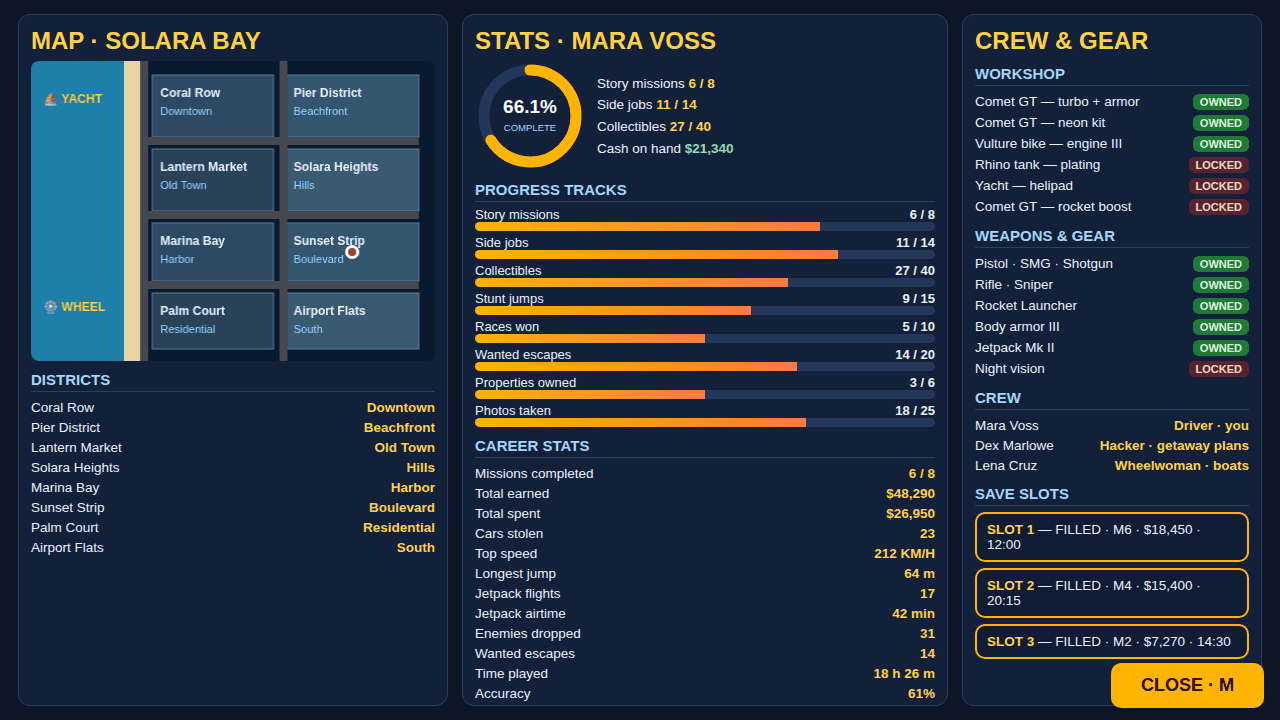
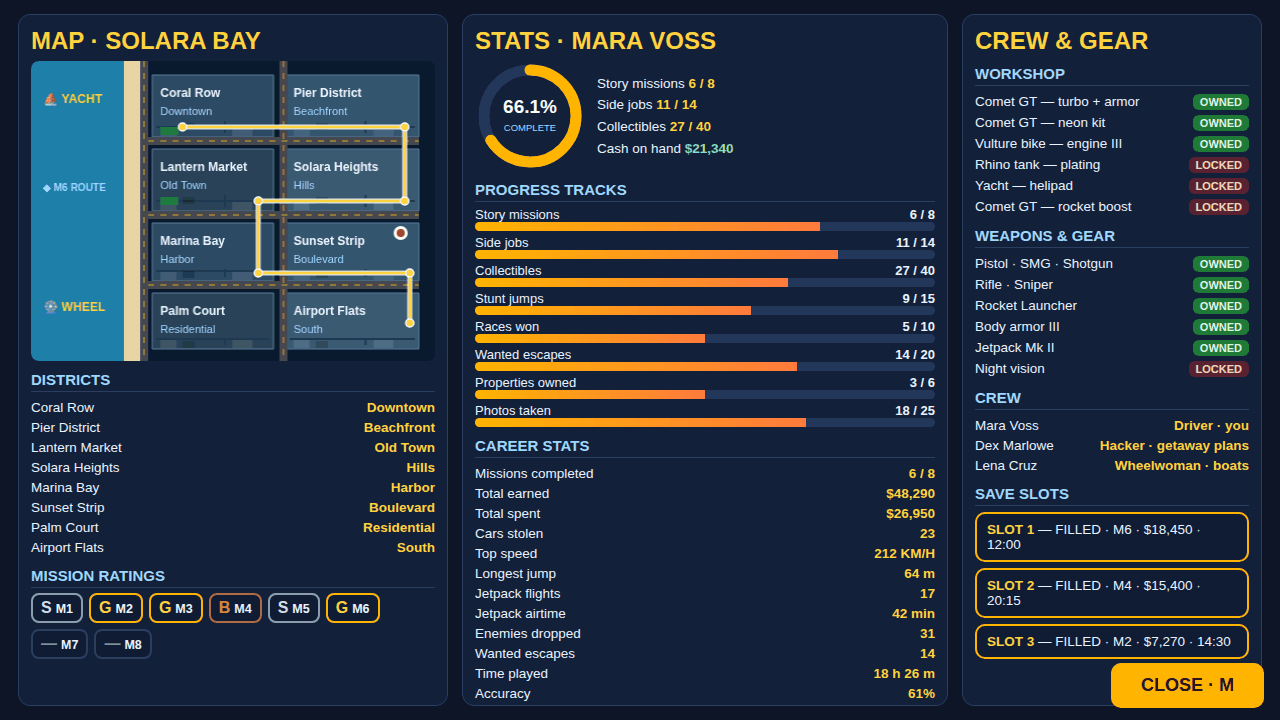
Solara Bay v20 — fix pass 2: foot + meta (stronger shooting, ratings + street-grid map)

diff --git a/game/src/shots.js b/game/src/shots.js
@@ -3,10 +3,60 @@
 // scene, lighting and HUD the player sees, frozen at its most dramatic beat.
 // Cover rule: all five police cars separately visible, no overlap hiding a car,
 // POLICE lettering big and readable, heli fully framed.
+import * as THREE from 'three';
 import { MISSIONS } from './missions.js';
 import { showBanner, toggleMeta, renderMeta } from './hud.js';
+import { flashTexture } from './textures.js';
 
 function faceNorth(obj, yaw = 0) { obj.rotation.y = Math.PI / 2 + yaw; } // model front +X -> -Z
+
+// Foot-shot-only combat effects: a THICK sharp tracer (hot white core inside
+// a wide orange glow) plus a big hard muzzle flash. The shared fireFlash
+// bolt is thin by design (it also serves the chase shot), so the foot shot
+// layers these static bolts on top — cover/chase never call them.
+function heavyTracer(G, ax, ay, az, bx, by, bz, coreR = 0.08, glowR = 0.18, coreColor = 0xfff6c0, glowColor = 0xff7a1a) {
+  const a = new THREE.Vector3(ax, ay, az), b = new THREE.Vector3(bx, by, bz);
+  const dir = new THREE.Vector3().subVectors(b, a);
+  const len = dir.length();
+  const unit = dir.clone().normalize();
+  for (const [r, color, opacity] of [[glowR, glowColor, 0.45], [coreR, coreColor, 1.0]]) {
+    const bolt = new THREE.Mesh(
+      new THREE.CylinderGeometry(r, r, len, 8, 1, true),
+      new THREE.MeshBasicMaterial({ color, transparent: true, opacity, fog: false }),
+    );
+    bolt.position.copy(a).addScaledVector(dir, 0.5);
+    bolt.quaternion.setFromUnitVectors(new THREE.Vector3(0, 1, 0), unit);
+    G.scene.add(bolt);
+  }
+}
+
+function bigFlash(G, x, y, z, scale = 3.8) {
+  const s = new THREE.Sprite(new THREE.SpriteMaterial({ map: flashTexture(), transparent: true, opacity: 1, depthWrite: false, fog: false }));
+  s.position.set(x, y, z);
+  s.scale.set(scale, scale, 1);
+  G.scene.add(s);
+}
+
+// Foot-shot-only fruit crate: wooden box + a smaller box on top, so the
+// market spills into the foreground instead of bare sidewalk.
+function addCrate(G, x, z, s = 1, ry = 0.3) {
+  const wood = new THREE.MeshStandardMaterial({ color: 0x8a5a2e, roughness: 0.9 });
+  const woodDark = new THREE.MeshStandardMaterial({ color: 0x6b4423, roughness: 0.9 });
+  const box = new THREE.Mesh(new THREE.BoxGeometry(s, s * 0.7, s), wood);
+  box.position.set(x, s * 0.35, z); box.rotation.y = ry; box.castShadow = true;
+  G.scene.add(box);
+  const top = new THREE.Mesh(new THREE.BoxGeometry(s * 0.7, s * 0.45, s * 0.7), woodDark);
+  top.position.set(x, s * 0.7 + s * 0.22, z); top.rotation.y = ry + 0.5; top.castShadow = true;
+  G.scene.add(top);
+  // fruit piled on the crate: smooth spheres, market colours
+  const cols = [0xff7a2e, 0xffd23e, 0x7ddb4a];
+  for (let i = 0; i < 3; i++) {
+    const fr = new THREE.Mesh(new THREE.SphereGeometry(0.2, 12, 10), new THREE.MeshStandardMaterial({ color: cols[i % 3], roughness: 0.5 }));
+    fr.position.set(x - 0.2 + i * 0.2, s * 0.7 + s * 0.45 + 0.14, z + (i % 2 ? 0.12 : -0.1));
+    fr.castShadow = true;
+    G.scene.add(fr);
+  }
+}
 
 export function applyShot(G, name) {
   const W = G.world;
@@ -49,19 +99,52 @@ export function applyShot(G, name) {
     G.speedKmh = 0; G.health = 92; G.carDamage = 18;
     G.inCar = false; G.jetpackOn = false;
     G.hero.position.set(2, 0, 20); G.hero.rotation.y = Math.PI / 2; G.hero.visible = true;
-    G.player.position.set(12, 0, 46); G.player.rotation.y = 2.58; G.player.visible = true;
-    G.playerPos.set(12, 0, 46); G.heading = 2.58;
-    // enemies: one guard standing, one guard aiming, one DOWNED with red ring
-    G.guards[0].position.set(22, 0, 30); G.guards[0].rotation.y = -0.4; G.guards[0].visible = true;
-    G.guards[1].position.set(20, 0, 24); G.guards[1].rotation.y = -0.2; G.guards[1].visible = true;
-    G.downed.position.set(14, 0, 40); G.downed.rotation.y = 0.7; G.downed.visible = true;
+    // player BIG and close: camera ~7 units behind her shoulder, FRUIT sign
+    // still huge and fully in frame above the stalls
+    G.player.position.set(13, 0, 46); G.player.rotation.y = 2.06; G.player.visible = true;
+    G.playerPos.set(13, 0, 46); G.heading = 2.06;
+    // guards: closer, scaled up, in front of the stalls — not behind them.
+    // Guard 0 stands LATERALLY in the market lane (east of the player), so
+    // the tracer crosses the frame instead of vanishing away from the camera.
+    G.guards[0].position.set(23.5, 0, 40.5); G.guards[0].rotation.y = -1.1; G.guards[0].scale.setScalar(1.25); G.guards[0].visible = true;
+    G.guards[1].position.set(22.5, 0, 29.5); G.guards[1].rotation.y = -0.2; G.guards[1].scale.setScalar(1.25); G.guards[1].visible = true;
+    // DOWNED enemy: LARGE, on the OPEN sidewalk left-centre foreground — the
+    // near stalls occlude everything behind them from this close camera, so
+    // the body goes where nothing stands between it and the lens: clear of
+    // the player, the sign post and the minimap, red ring on open pavement
+    G.downed.position.set(12.0, 0, 42.5); G.downed.rotation.y = 0.9; G.downed.scale.setScalar(1.6); G.downed.visible = true;
     G.policeCars.forEach((p, i) => { p.position.set(-7 + i * 3, 0, 60 + i * 8); faceNorth(p); p.visible = i < 2; });
     G.helis.forEach((h) => { h.visible = false; });
-    // muzzle flash + tracer live at the player's gun
-    G.fireFlash(12.8, 1.5, 45, 22, 1.4, 30);
-    // over-shoulder camera: player big, FRUIT sign huge and fully in frame
-    G.camera.position.set(6, 3.2, 56);
-    G.camera.lookAt(17, 2, 32);
+    // DENSE crowd: ten peds pulled into the frame — foreground figures at the
+    // bottom edge, more around the stalls and the FRUIT sign — frozen in place
+    const crowdSpots = [
+      [7.8, 48.0, 2.4], [19.8, 48.5, -2.2], [9.2, 47.2, 3.1], [9.0, 42.0, 2.2],
+      [14.5, 42.5, -0.5], [15.0, 36.5, 0.9], [25.5, 43.0, -1.2], [19.0, 30.5, 2.9],
+      [24.0, 35.0, -2.0], [11.5, 39.5, 1.4],
+    ];
+    crowdSpots.forEach(([x, z, ry], i) => {
+      const p = G.crowd[i];
+      if (!p) return;
+      p.position.set(x, 0, z); p.rotation.y = ry; p.userData.walking = false;
+    });
+    // FILL the lower third: fruit crates spilling onto the sidewalk foreground
+    addCrate(G, 17.8, 48.5, 1.1, 0.3);
+    addCrate(G, 21.8, 45.0, 0.9, -0.2);
+    addCrate(G, 24.5, 44.0, 1.0, 0.6);
+    // STRONG shooting: thick sharp tracer + big hard muzzle flash from the
+    // player, and a return-fire tracer + flash from the guard — a shootout,
+    // not a soft glow. The bolt runs laterally across the frame (player east
+    // to the guard in the market lane), so it reads as a bolt, not a dot.
+    G.fireFlash(14.1, 1.5, 45.4, 23.5, 1.3, 40.5);
+    heavyTracer(G, 14.1, 1.5, 45.4, 23.5, 1.3, 40.5, 0.11, 0.24);
+    heavyTracer(G, 14.1, 1.85, 45.4, 23.5, 1.6, 40.5, 0.05, 0.13);
+    bigFlash(G, 14.1, 1.5, 45.4, 3.0);
+    heavyTracer(G, 23.5, 1.4, 40.5, 14.0, 1.2, 45.8, 0.05, 0.13, 0xffd0a0, 0xff5020);
+    bigFlash(G, 23.3, 1.4, 40.7, 2.2);
+    // close over-shoulder camera, turned a touch east so the road wedge
+    // shrinks: player big, FRUIT sign huge and fully in frame
+    G.camera.position.set(10.5, 2.3, 52.5);
+    G.camera.lookAt(16.5, 1.6, 38);
     G.waypoint.set(22, 0, 26);
   } else if (name === 'chase') {
     W.setPreset('golden');

diff --git a/game/src/hud.js b/game/src/hud.js
@@ -119,6 +119,12 @@ const DISTRICTS = [
   ['Solara Heights', 'Hills'], ['Marina Bay', 'Harbor'], ['Sunset Strip', 'Boulevard'],
   ['Palm Court', 'Residential'], ['Airport Flats', 'South'],
 ];
+// Mission ratings, v18 convention: S = top, G = gold, B = bronze, — = not
+// played yet. Six of eight missions are complete, so M1–M6 carry a rating.
+const RATINGS = [
+  ['M1', 'S'], ['M2', 'G'], ['M3', 'G'], ['M4', 'B'],
+  ['M5', 'S'], ['M6', 'G'], ['M7', '—'], ['M8', '—'],
+];
 
 export function renderMeta() {
   $('tracks').innerHTML = TRACKS.map(([n, a, b]) =>
@@ -128,6 +134,8 @@ export function renderMeta() {
   $('gear').innerHTML = GEAR.map(([n, s]) => `<div class="row"><span>${n}</span><span class="tag ${s === 'OWNED' ? 'owned' : 'locked'}">${s}</span></div>`).join('');
   $('crew').innerHTML = CREW.map(([n, r]) => `<div class="row"><span>${n}</span><b>${r}</b></div>`).join('');
   $('districts').innerHTML = DISTRICTS.map(([n, d]) => `<div class="row"><span>${n}</span><b>${d}</b></div>`).join('');
+  $('ratings').innerHTML = RATINGS.map(([m, r]) =>
+    `<span class="rate ${r === 'G' ? 'gold' : r === 'S' ? 'silver' : r === 'B' ? 'bronze' : 'none'}"><b>${r}</b>${m}</span>`).join('');
   const saves = JSON.parse(localStorage.getItem('solara-saves') || '[]');
   const slots = [
     { n: 1, label: saves[0] ? `FILLED · ${saves[0]}` : 'EMPTY' },
@@ -139,7 +147,10 @@ export function renderMeta() {
   drawMap();
 }
 
-// Real 8-district map drawn on canvas: ocean, beach, road grid, labels.
+// Detailed street-grid map drawn on canvas: ocean, beach, 8 district blocks
+// subdivided into parcels by inner streets, dashed avenues, a gold M6 route
+// with waypoint dots, and a player marker placed clear of every label
+// (it used to sit on top of the "Sunset Strip" text).
 export function drawMap() {
   const cv = $('mapCanvas'); if (!cv) return;
   const g = cv.getContext('2d');
@@ -151,17 +162,53 @@ export function drawMap() {
   rects.forEach(([x, y, w, h], i) => {
     g.fillStyle = cols[i % 4]; g.fillRect(x, y, w, h);
     g.strokeStyle = '#5a7d9c'; g.lineWidth = 1; g.strokeRect(x, y, w, h);
+    // inner streets: subdivide the block into parcels BELOW the labels
+    g.strokeStyle = '#1e3a52'; g.lineWidth = 2;
+    g.beginPath(); g.moveTo(x + w * 0.6, y + 46); g.lineTo(x + w * 0.6, y + h - 4); g.stroke();
+    g.beginPath(); g.moveTo(x + 4, y + h - 10); g.lineTo(x + w - 4, y + h - 10); g.stroke();
+    // tiny building footprints in the lower parcels: a parcel map, not a slab
+    g.fillStyle = 'rgba(255,255,255,0.10)';
+    g.fillRect(x + 8, y + h - 9, 16, 8);
+    g.fillRect(x + w * 0.66, y + h - 9, 20, 8);
+    g.fillStyle = 'rgba(0,0,0,0.18)';
+    g.fillRect(x + 30, y + 48, 12, 7);
+    // district name + sub-label, top-left of the block, clear of the streets
     g.fillStyle = '#eaf2ff'; g.font = 'bold 12px Arial'; g.textAlign = 'left';
     g.fillText(DISTRICTS[i][0], x + 8, y + 22);
     g.fillStyle = '#9fd8ff'; g.font = '11px Arial';
     g.fillText(DISTRICTS[i][1], x + 8, y + 40);
   });
-  // roads
-  g.fillStyle = '#45484f'; g.fillRect(108, 0, 8, 300); g.fillRect(246, 0, 8, 300); g.fillRect(116, 76, 268, 8); g.fillRect(116, 150, 268, 8); g.fillRect(116, 220, 268, 8);
-  // yacht + ferris icons
-  g.fillStyle = '#ffd23e'; g.font = 'bold 12px Arial';
+  // two pocket parks inside the grid, clear of every label and of the route
+  g.fillStyle = '#2a6b3c';
+  g.fillRect(128, 66, 18, 8);
+  g.fillRect(128, 136, 18, 8);
+  // avenues: the roads between the blocks, with dashed yellow centrelines
+  g.fillStyle = '#45484f';
+  g.fillRect(108, 0, 8, 300); g.fillRect(246, 0, 8, 300);
+  g.fillRect(116, 76, 268, 8); g.fillRect(116, 150, 268, 8); g.fillRect(116, 220, 268, 8);
+  g.strokeStyle = '#d8a928'; g.lineWidth = 1; g.setLineDash([6, 6]);
+  g.beginPath(); g.moveTo(112, 0); g.lineTo(112, 300); g.moveTo(250, 0); g.lineTo(250, 300); g.stroke();
+  g.beginPath(); g.moveTo(116, 80); g.lineTo(384, 80); g.moveTo(116, 154); g.lineTo(384, 154); g.moveTo(116, 224); g.lineTo(384, 224); g.stroke();
+  g.setLineDash([]);
+  // M6 route: gold line, white under-stroke, waypoint dots — threaded along
+  // block edges and below the labels so it never crosses any text
+  const route = [[150, 66], [370, 66], [370, 140], [225, 140], [225, 212], [375, 212], [375, 262]];
+  g.lineJoin = 'round';
+  g.strokeStyle = 'rgba(255,255,255,0.85)'; g.lineWidth = 5;
+  g.beginPath(); route.forEach(([x, y], i) => { if (i === 0) g.moveTo(x, y); else g.lineTo(x, y); }); g.stroke();
+  g.strokeStyle = '#ffd23e'; g.lineWidth = 2.5;
+  g.beginPath(); route.forEach(([x, y], i) => { if (i === 0) g.moveTo(x, y); else g.lineTo(x, y); }); g.stroke();
+  for (const [x, y] of route) {
+    g.fillStyle = '#ffd23e'; g.beginPath(); g.arc(x, y, 4, 0, Math.PI * 2); g.fill();
+    g.strokeStyle = '#fff'; g.lineWidth = 1.5; g.beginPath(); g.arc(x, y, 4, 0, Math.PI * 2); g.stroke();
+  }
+  // yacht + ferris icons + route legend, all in the empty ocean strip
+  g.fillStyle = '#ffd23e'; g.font = 'bold 12px Arial'; g.textAlign = 'left';
   g.fillText('⛵ YACHT', 12, 42); g.fillText('🎡 WHEEL', 12, 250);
-  // player marker (Sunset Strip, clear of labels)
-  g.fillStyle = '#fff'; g.beginPath(); g.arc(318, 191, 7, 0, Math.PI * 2); g.fill();
-  g.fillStyle = '#c8102e'; g.beginPath(); g.arc(318, 191, 4, 0, Math.PI * 2); g.fill();
+  g.fillStyle = '#9fd8ff'; g.font = 'bold 10px Arial';
+  g.fillText('◆ M6 ROUTE', 12, 130);
+  // player marker: top-right corner of the Sunset Strip block, clear of its
+  // name and sub-label (both end well left of x=359)
+  g.fillStyle = '#fff'; g.beginPath(); g.arc(366, 172, 7, 0, Math.PI * 2); g.fill();
+  g.fillStyle = '#c8102e'; g.beginPath(); g.arc(366, 172, 4, 0, Math.PI * 2); g.fill();
 }

diff --git a/game/index.html b/game/index.html
@@ -59,6 +59,13 @@
   #meta .track .bar i { display: block; height: 100%; background: linear-gradient(90deg,#ffb400,#ff7a3c); }
   #meta .row { display: flex; justify-content: space-between; font-size: 13.5px; padding: 2.5px 0; }
   #meta .row b { color: #ffd23e; }
+  #ratings { display: flex; flex-wrap: wrap; gap: 6px; }
+  #ratings .rate { display: inline-flex; align-items: baseline; gap: 4px; font-size: 12.5px; font-weight: 700; color: #eaf2ff; background: #0f1c33; border: 2px solid #2a3f5f; border-radius: 8px; padding: 4px 8px; }
+  #ratings .rate b { font-size: 16px; }
+  #ratings .rate.gold { border-color: #ffb400; } #ratings .rate.gold b { color: #ffd23e; }
+  #ratings .rate.silver { border-color: #8fa3b8; } #ratings .rate.silver b { color: #d7dee8; }
+  #ratings .rate.bronze { border-color: #b06a35; } #ratings .rate.bronze b { color: #e08a4d; }
+  #ratings .rate.none { border-color: #2a3f5f; } #ratings .rate.none b { color: #7a8aa0; }
   #meta .slot { border: 2px solid #2a3f5f; border-radius: 10px; padding: 8px 10px; margin: 6px 0; font-size: 13.5px; background: #0f1c33; }
   #meta .slot.filled { border-color: #ffb400; }
   #meta .slot .t { font-weight: 800; color: #ffd23e; }
@@ -121,6 +128,8 @@
       <canvas id="mapCanvas" width="400" height="300"></canvas>
       <h2>DISTRICTS</h2>
       <div id="districts"></div>
+      <h2>MISSION RATINGS</h2>
+      <div id="ratings"></div>
     </div>
     <div class="col">
       <h1>STATS &middot; MARA VOSS</h1>

diff --git a/game/src/main.js b/game/src/main.js
@@ -102,6 +102,7 @@ G.guards.forEach((gd, i) => { gd.position.set(30 + i * 3, 0, 30 - i * 6); gd.vis
 G.downed = makeDowned();
 G.downed.position.set(26, 0, 30.5); G.downed.visible = false; scene.add(G.downed);
 const crowd = makeCrowd(scene);
+G.crowd = crowd; // staged shots reposition peds; gameplay never touches it
 
 // ---- effects: muzzle flash sprite, tracers, debris, smoke, skid marks ----
 const flash = new THREE.Sprite(new THREE.SpriteMaterial({ map: flashTexture(), transparent: true, opacity: 0, depthWrite: false, fog: false }));

diff --git a/README.md b/README.md
@@ -26,9 +26,9 @@ the sunset boulevard.
   presets, fog matched to the horizon, one shadow-casting sun (4096 map)
 - **HUD + minimap**: mission box, cash, clock, wanted stars, SBPD unit list,
   health, weapon, speed, damage, circular minimap
-- **Meta**: MAP/STATS screen — real 8-district map, 66.1% completion ring,
-  8 progress tracks, career stats, workshop OWNED/LOCKED, gear, crew,
-  3 save slots (localStorage)
+- **Meta**: MAP/STATS screen — detailed street-grid map with the gold M6 route,
+  mission ratings M1–M8, 66.1% completion ring, 8 progress tracks, career stats,
+  workshop OWNED/LOCKED, gear, crew, 3 save slots (localStorage)
 - **Audio**: synthesised engine hum, two-tone sirens, gunshots, radio bass
   line — all WebAudio, no audio files
 
@@ -59,7 +59,7 @@ Three.js r160 is vendored under `game/vendor/three.module.min.js`.
 2. `2-foot.png` — M2 "COLLECT THE DROP": on-foot shootout at the FRUIT stall.
 3. `3-chase.png` — M3 "OUTRUN THE SUNSET ROADBLOCK": jetpack escape under
    fire from two helicopters at golden hour.
-4. `4-meta.png` — MAP/STATS: 8-district map, 66.1% ring, career stats,
-   workshop, crew, save slots.
+4. `4-meta.png` — MAP/STATS: street-grid map with M6 route, mission ratings,
+   66.1% ring, career stats, workshop, crew, save slots.
 
 All art, names, story and code are original — nothing from any commercial game.
